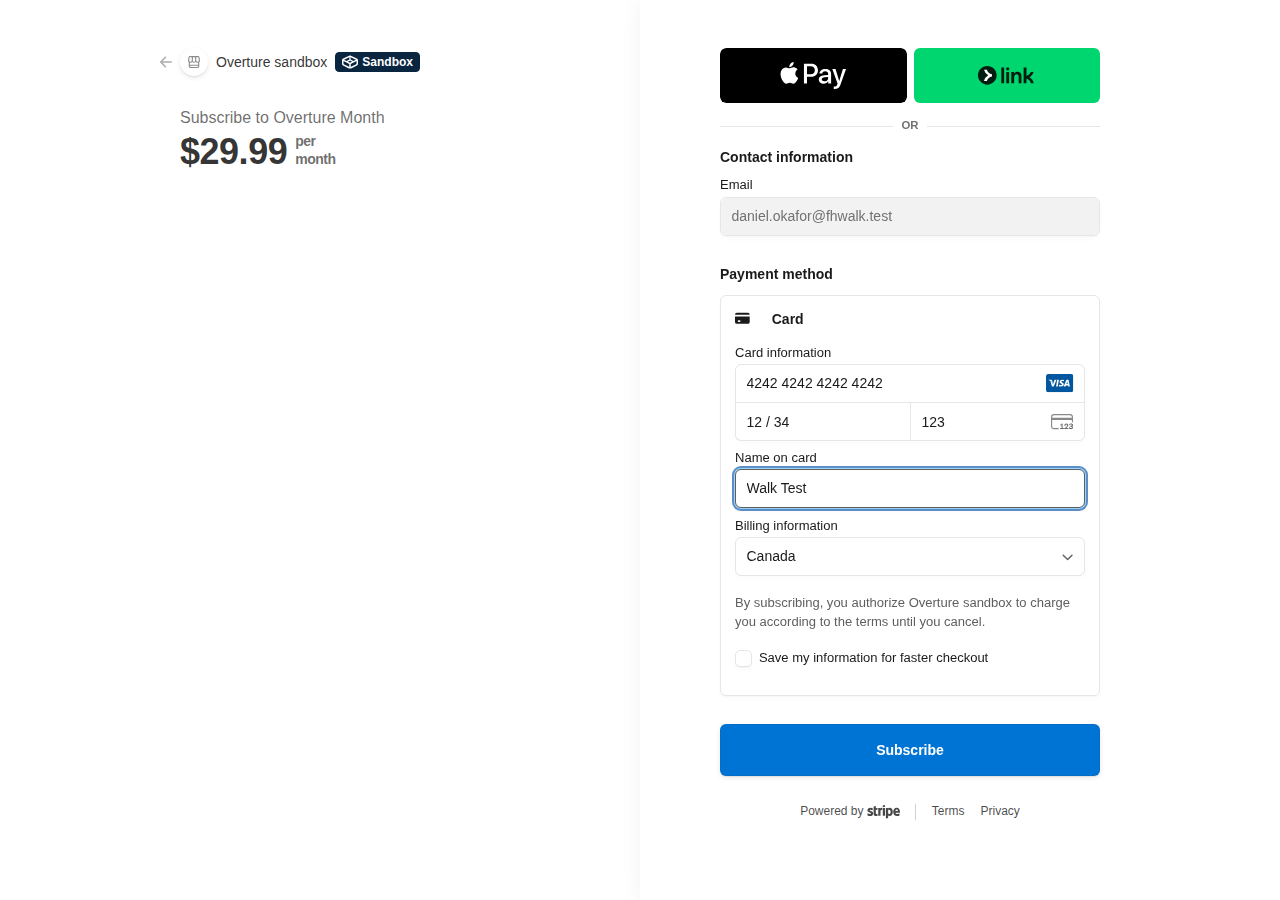
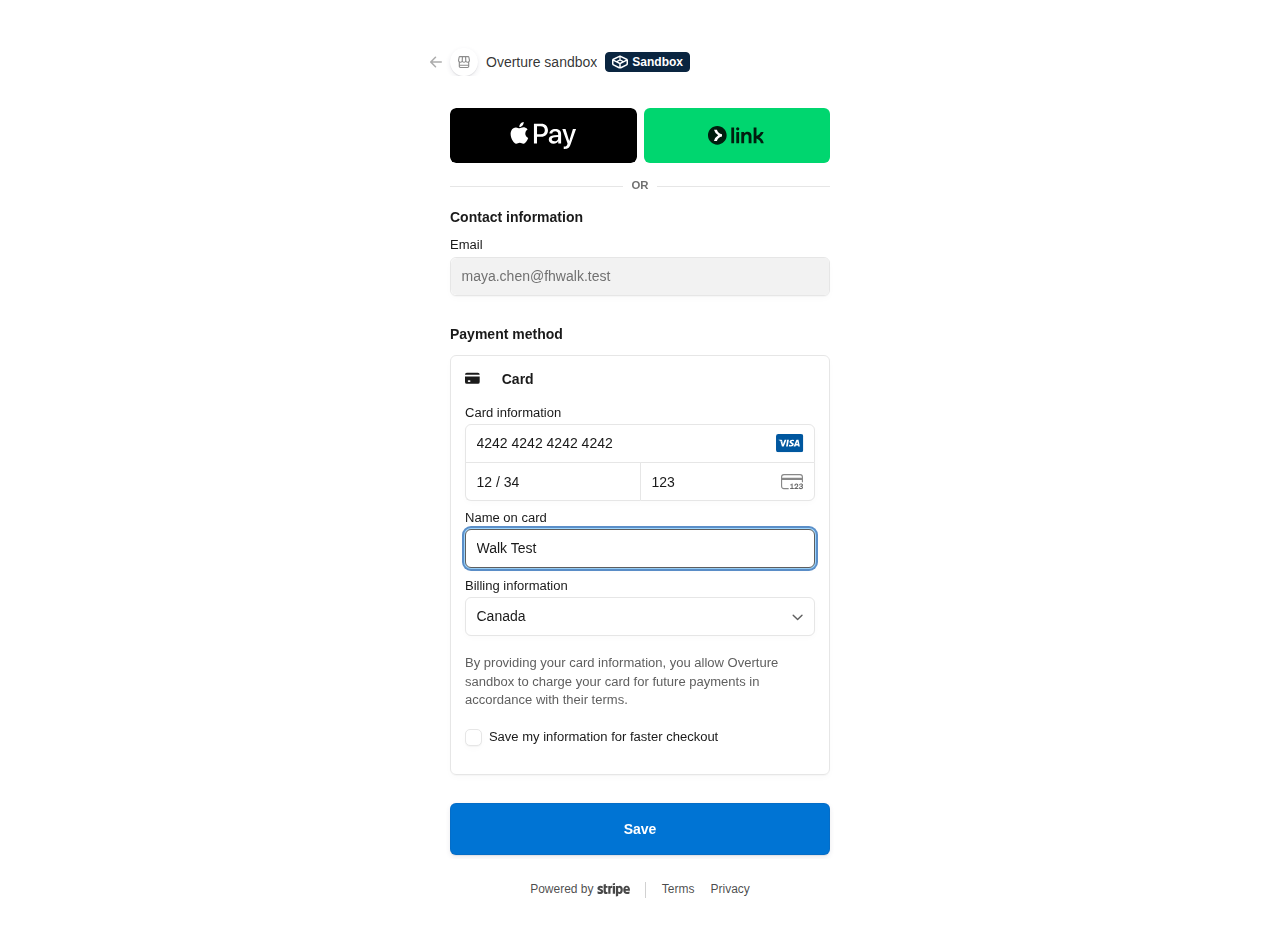
Rerun the #710 walk with the Free-trial user on the merged Lever fix
The third user now reaches the dry-submit stop too. Software engineer
(Free trial) on a fresh instance at b1e9d528: 100 jobs pulled, 98 kept,
85 scored, three trial picks, one Review form answered (three questions),
the Stripe Setup-card check, and USMobile's live Lever form filled to
Submit with the structured location committed (Ottawa, ON, CAN) and no
Submit click. Aylo (Greenhouse) closed before sending; Affirm hit the
#789 province loop at Review.

The report's swe section is this run's evidence (picks, pool, visible
top 10, Review questions, plan screens, identity fields, $0.0558 of
Haiku). Teacher and admin evidence stays from the two earlier instances
on 0ae0339b, and the readability fixes to the limits (three ATS families,
true dark Matches pair) are stated plainly.

diff --git a/docs/design-review/issue-710-walk/report.md b/docs/design-review/issue-710-walk/report.md
@@ -1,35 +1,44 @@
 # End-to-end acceptance walk — three people, three plans (#710)
 
-Date: 2026-11-27 (second rerun). Run on merged `main` at `0ae0339b` — the #710 wiring (#753), the BambooHR /
-Zoho / Manatal readers (#761), claim-every-adapter + preflight-the-filled-form (#763), one open pick per
-employer (#762), the batch custom_id cap (#755), and the live BambooHR / Zoho fill fix (#776). Local instance
-`http://devbox:3423`, `NODE_ENV=development`, `OVERTURE_DRY_SUBMIT=1`, freehire free tier (no API key),
-Claude Haiku 5.5 (Batches), Stripe sandbox, local Chromium (`BROWSER_PROVIDER=local`). Three fresh accounts:
+Date: 2026-11-27 (third rerun: the Free-trial user, on the merged Lever/JazzHR fix). This pass ran the software
+engineer only, on merged `main` at **`b1e9d528`** — the #710 wiring (#753), the BambooHR / Zoho / Manatal readers
+(#761), claim-every-adapter + preflight-the-filled-form (#763), one open pick per employer (#762), the batch
+custom_id cap (#755), the live BambooHR / Zoho fill fix (#776), and **#792**: the live Lever location autocomplete
+and the JazzHR `form#form_submit_new_resume` submit anchor (#786, #787). The teacher and admin evidence below was
+captured in the two preceding instances on `0ae0339b`; it is kept because this run only exists to move the third
+user.
+
+Local instance `http://devbox:3423`, `NODE_ENV=development`, `OVERTURE_DRY_SUBMIT=1`, freehire free tier (no API
+key), Claude Haiku 5.5 (Batches), Stripe sandbox, local Chromium (`BROWSER_PROVIDER=local`). Three fresh accounts:
 software engineer (Free trial), teacher (Weekly), admin (Monthly).
 
-**Headline: a real send now reaches the dry-submit stop.** Four Applications were filled and stopped immediately
-before the Submit click: Elite Private School (BambooHR, teacher), jrec and sipeknekatik (BambooHR, admin), and
-International Community Schools (Zoho Recruit, teacher, captured on the same commit in the immediately preceding
-pass). The pre-Submit screenshots are in this folder. No application clicked Submit — that is the intended
+**Headline: all three people now reach the pre-Submit stop, on three ATS families.** Five Applications were filled
+and stopped immediately before the Submit click: USMobile (Lever, swe — this run), Elite Private School (BambooHR,
+teacher), International Community Schools (Zoho Recruit, teacher), jrec and sipeknekatik (BambooHR, admin). The
+pre-Submit screenshots are in this folder. No application clicked Submit — that is the intended
 `OVERTURE_DRY_SUBMIT=1` stop, not a failure.
 
-Two ATS families reached it, which was the target of this rerun. The remaining blockers are four distinct
-per-adapter issues, filed with their exact evidence (#786 JazzHR selector, #787 Lever fill_failed without a
-diagnostic, #788 Manatal identity, #789 Greenhouse city combobox review loop). Workable stays behind the ATS kill
-switch; SmartRecruiters' sampled posting had expired.
+The Lever fill blocker that stopped this user in the previous run is gone: the structured location commits
+(`location` + `selectedLocation` both populate) and the Free-trial pick no longer dies before preflight. The other
+two picks this day stopped for reasons outside the send path — a closed posting and the #789 Review loop. Two
+per-adapter blockers remain from the wider walk — Manatal identity (#788) and the Greenhouse city/province Review
+loop (#789), which bit the Affirm card in this run — plus supply limits (Workable kill switch, an expired or closed
+posting).
 
 ## What this run shares
 
 - Sign-up by magic link, resume upload with the real Haiku resume reader, only the truly missing gap fields, then
-  preferences by freehire category and canonical place ids. One capped pull per person (`jobs.pull_max_pages=1`,
-  so 100 fetched), dedupe, sendable-ATS filtering, then one Haiku score per job through the Batches API.
-- The dispatcher now claims every apply-supported adapter and no longer blocks an `unknown` liveness result
-  (#763), so every pick either prepares, reaches Ready, or records an attempt. The Tracker shows why.
-- Review questions come from the real form; the harness answers them through the real Review form. Answering a
-  Greenhouse city combobox can loop (see #789), and the walk then skips that Application instead of faking it.
+  preferences by freehire category and canonical place ids. One capped pull per person (`jobs.pull_max_pages=1`:
+  100 fetched), dedupe, sendable-ATS filtering, then one Haiku score per job through the Batches API.
+- The dispatcher claims every apply-supported adapter and no longer blocks an `unknown` liveness result (#763), so
+  every pick either prepares, reaches Ready, or records an attempt. The Tracker shows why.
+- Review questions come from the real form; the harness answers them through the real Review form. A question that
+  comes back after it was answered is skipped rather than answered twice, so a looping card is skipped, not faked
+  (#789).
 - Plans were honoured in Stripe sandbox: the admin's Monthly Checkout created a real subscription and the signed
   `invoice.paid` webhook granted **250 applications** (`ledger` grant `in_1UgUKIGhJ7DirGl3p6krU6tp`); the teacher's
-  Weekly Checkout completed and the plan screen shows Weekly with the 10-a-day limit.
+  Weekly Checkout completed and the plan screen shows Weekly with the 10-a-day limit; the swe trial went through the
+  Setup-card check only (no charge).
 - The paid 5-minute spacing is exercised with the test clock (`POST /__test__/clock/offset`, enabled with
   `ENABLE_TEST_ROUTES`): the two admin BambooHR dry submits are **294 s** apart (scheduled 300 s), rather than
   sitting through wall-clock minutes. Everything else (pull, scoring, preparation, filling) is the shipped path.
@@ -38,6 +47,7 @@ switch; SmartRecruiters' sampled posting had expired.
 
 | User | Application | ATS | Attempt | Outcome | Submit click |
 |---|---|---|---|---|---|
+| Maya (Free trial) | USMobile — Senior Backend Engineer | Lever | 1 | `dry_submit` | none |
 | Amina (Weekly) | Elite Private School — English Teacher 2026-2027 | BambooHR | 1 | `dry_submit` | none |
 | Amina (Weekly) | International Community Schools — Homeroom Teacher | Zoho Recruit | 1 | `dry_submit` | none (prior pass, same commit) |
 | Daniel (Monthly) | jrec — Executive Assistant | BambooHR | 1 | `dry_submit` | none |
@@ -45,45 +55,81 @@ switch; SmartRecruiters' sampled posting had expired.
 
 The attempt rows carry `outcome=dry_submit`, `error_code=dry_submit`, `submit_clicked_at=null`, and each has a
 stored `before_submit` screenshot. The screenshots show the filled live form — name, email, phone, resume
-attachment (and, for Zoho, the address and demographic selects) — with the Submit/Submit Application button still
-uncicked.
+attachment (and, for Zoho, the address and demographic selects; for Lever, the committed location) — with the
+Submit/Submit Application button still unclicked.
 
-Screens: [BambooHR (teacher)](teacher-send-bamboohr-before-submit.png) ·
+Screens: [Lever (swe)](swe-send-lever-before-submit.png) ·
+[BambooHR (teacher)](teacher-send-bamboohr-before-submit.png) ·
 [Zoho Recruit (teacher)](teacher-send-zoho_recruit-before-submit.png) ·
 [BambooHR jrec (admin)](admin-send-bamboohr-jrec-before-submit.png) ·
 [BambooHR sipeknekatik (admin)](admin-send-bamboohr-sipeknekatik-before-submit.png)
 
-## User 1 — Maya Chen, software engineer, Free trial
+## User 1 — Maya Chen, software engineer, Free trial (this run)
 
 Preferences: Software engineering, Backend, Full-stack, DevOps, Data engineering; Canada. Resume reader filled
 name, email, phone, city/country, work authorization, current employer, languages, GitHub; gaps asked only for
 salary, notice, relocation, LinkedIn and the sponsorship confirmation.
 
-Pool **88** matching roles after scoring; the trial shows the top 3 and locks the rest behind the plan card.
-Picks: Aylo Careers (Greenhouse), Flexstaf IT (Manatal), Jobgether (Lever).
+Pull: **100 fetched, 98 kept, 2 dropped as duplicates**, one page. Scoring: **85 scored rows** in the instance, and
+the Matches screen first reported **88 matching roles** to the user. The list is live and was re-ranked while the
+run went on: the capture at the end shows **64 matches (page 1 of 7)**, all at 80%, after the app's own second pull
+and re-score. The trial shows its picks and locks the rest behind the plan card.
 
-| # | Score | Role | Company | Place | Why (stored reason, shortened) |
-|---|---|---|---|---|---|
-| 1 | 85 | Sr. Software Developer I | Aylo Careers | Montréal, QC | Software engineering role matches your backend/platform work at Shopwise |
-| 2 | 85 | Senior Backend Software Engineer – Golang | Flexstaf IT | Ontario | Go backend work matches your checkout API at Shopwise; GraphQL unconfirmed |
-| 3 | 80 | Founding Engineer | Jobgether | Canada | Full-stack ownership from architecture to deployment, adjacent to backend |
+Picks (one per employer, chosen by the app from the sendable list):
 
-Plan screen: Free trial preselected, card check only, all 3 sent at once; Stripe sandbox Setup card confirmed.
-Outcome: **no send for the software pool.**
-- Jobgether (Lever) was approved and dispatched twice: both attempts `outcome=form_changed`,
-  `error_code=null`, `submit_clicked_at=null` — the filler failed before preflight, so no field detail is
-  recorded (#787).
-- Flexstaf IT (Manatal) was skipped as `posting_identity:unreadable` (#788).
-- Aylo Careers (Greenhouse) produced no attempt in this pass; in the immediately prior pass it was skipped as
-  `form_unsupported`.
+| # | Role | Company | Place | ATS |
+|---|---|---|---|---|
+| 1 | Sr. Software Developer I | Aylo Careers | Montréal, Quebec | Greenhouse |
+| 2 | Senior Backend Engineer | USMobile | Toronto | Lever |
+| 3 | Senior Software Engineer, Backend (Trust Infra) | Affirm | Remote Canada | Greenhouse |
 
-Review questions per application: Aylo 0 (unsupported form), Flexstaf 0, Jobgether 0 — no form was read before
-the fill failed.
+The visible list at the end of the run (as the Matches screen showed it, page 1 of 7):
 
-What this proves: a Free-trial user still reaches a scored, pickable list, the card check, three durable picks and
-the plan gate. The software pool's direct employers on this day were Lever/Manatal, and neither can send yet.
+| # | Match | Role | Company | Place |
+|---|---|---|---|---|
+| 1 | 80 | Founding Engineer | Jobgether | Canada |
+| 2 | 80 | Senior Platform Engineer | Jobgether | Canada |
+| 3 | 80 | Founding Engineer – Infra Development | hireVouch | Toronto, Ontario |
+| 4 | 80 | Senior Software Developer, AI Infrastructure | Jobgether | Canada |
+| 5 | 80 | DevOps/Cloud Engineer (Senior) | Upstaff | Toronto, Canada |
+| 6 | 80 | Senior Full Stack AI Engineer | Orion Digital | Vancouver (or remote), BC |
+| 7 | 80 | Senior Software Engineer, Security | Forward Financing | Remote – Ontario, Canada |
+| 8 | 80 | Senior Platform Engineer | Robots and Pencils | Remote, Canada |
+| 9 | 80 | Senior Software Engineer, Platform | Planet | Canada, Remote |
+| 10 | 80 | Senior Full Stack Engineer II | Jobgether | Canada |
 
-## User 2 — Amina Yusuf, teacher, Weekly
+Plan: Free trial preselected, three applications at once, card check only (`Save`, no charge) in Stripe sandbox;
+the tracker shows "Free trial · 3 applications", "3 applications left · 0 of 10 today".
+
+Review questions: the USMobile form raised **three** — "Are you able to work in our Toronto office 3 days a week?"
+(answered No), "What are your salary expectations for this role?" (CAD 150,000 a year), "Are you authorized to work
+lawfully in the US for US Mobile Inc?" (answered No). Optional Preferred Name, Pronouns and State/Province were
+left blank. The Affirm form raised five (Preferred Name, Pronouns, U.S. State or Canadian Province, how-did-you-hear,
+prior employment at Affirm); the province question came back after it was answered, so the walk skipped that card
+as `review_dismissed` — the #789 class of loop, on Greenhouse again.
+
+Identity fields on the filled Lever form: Full name (Maya Chen), Email, Phone, **Current location** (the structured
+autocomplete committed "Ottawa, ON, CAN" — full name *and* hidden `selectedLocation` id), Current company, LinkedIn
+URL, Portfolio URL, GitHub URL, US Mobile phone, resume attachment; plus the hybrid-schedule radio (No), relocation
+radio (No), salary expectation textarea (CAD 150,000 a year), and the Canada / US work-authorization radios
+(Yes / No). The Submit Application button is visible and unclicked.
+
+Outcome: **USMobile (Lever) reached the dry-submit stop.** Aylo Careers (Greenhouse) prepared fine but was skipped at
+send with `posting_closed` — "This posting closed before sending.", the liveness check doing its job. Affirm
+(Greenhouse) stopped at Review (`review_dismissed`, #789).
+
+Honest detail on the attempt rows: this Application has four — `n=1 dry_submit`, `n=1 provider_error`, and
+`n=2 dry_submit` twice. The walk's approve loop re-approves a card that the dry-submit stop leaves back in Ready,
+so it was dispatched again; one of those re-dispatches failed 8.6 s in as `provider_error` with no stored error
+code, and the retry reached the same stop. Three `before_submit` screenshots were stored; the report links one. No
+Submit was clicked in any of them. This is harness behaviour around a deliberate dev-only stop, not a duplicate
+send to an employer.
+
+What this proves: a Free-trial user now goes from a fresh account through a real pull, real Haiku scoring, the
+3-pick trial, the Stripe Setup card check, one answered Review form, and a fully filled live Lever form stopped at
+Submit. The two remaining ATS gaps on this user's list were supply/Review, not the send path.
+
+## User 2 — Amina Yusuf, teacher, Weekly (preceding instance, `0ae0339b`)
 
 Preferences: Education; Ottawa + UAE, Saudi Arabia, Qatar, Kuwait, Bahrain, Oman. Gaps: phone, salary, notice,
 relocation, languages (English/Arabic).
@@ -109,7 +155,7 @@ Outcome:
   resume attachment, with Submit Application visible and unclicked.
 - **International Community Schools (Zoho Recruit) reached the dry-submit stop in the immediately preceding pass
   on `0ae0339b`**: the screenshot shows the full address block, the gender and nationality selects, the resume
-  attachment and a required CAPTCHA field above Submit Application. This pass skipped that Application at Review
+  attachment and a required CAPTCHA field above Submit Application. The later pass skipped that Application at Review
   (`review_dismissed`) because the city/nationality answers were re-asked; that is the #789 class of loop, not a
   send-path regression.
 - International School of London Qatar (BambooHR) stopped at preflight with
@@ -124,10 +170,10 @@ Available (optional). On the Zoho form: First/Last Name, Email, Mobile (+1), Gen
 State, Country, resume.
 
 What this proves: a Weekly teacher can go from a fresh account through a real paid Checkout to a fully filled live
-BambooHR form and a fully filled live Zoho form, stopping exactly at Submit. The supply limit is now the Workable
+BambooHR form and a fully filled live Zoho form, stopping exactly at Submit. The supply limit is the Workable
 kill switch, not form reading.
 
-## User 3 — Daniel Okafor, admin, Monthly
+## User 3 — Daniel Okafor, admin, Monthly (preceding instance, `0ae0339b`)
 
 Preferences: Administration, Operations; Canada + Ottawa. Gaps: phone, salary, notice, relocation, languages.
 
@@ -153,8 +199,10 @@ Outcome:
 - **jrec — Executive Assistant (BambooHR) reached the dry-submit stop.**
 - **sipeknekatik — Council Administrative Assistant (BambooHR) reached the dry-submit stop**, 294 s after jrec on
   the skipped clock (the 5-minute paid spacing).
-- CMHA Thames Valley (JazzHR) was approved and dispatched; the attempt ended `form_changed` with no error code
-  because the live form is `form#form_submit_new_resume` and the JazzHR selector never matched (#786).
+- CMHA Thames Valley (JazzHR) was approved and dispatched; that attempt ended `form_changed` with no error code
+  because the live form is `form#form_submit_new_resume` and the selector never matched (#786). #792 now matches it
+  and the merged e2e spec drives it to the dry-submit stop; it has not been re-run in this walk because this pass
+  was limited to the swe user.
 - Ubisoft (SmartRecruiters) stayed in preparation; its live posting says "This job has expired", so there is no
   form to read.
 - Alveole / BOS Staffing / MKO were skipped as `form_unsupported` or `open_text_ungrounded`; drclean and ltlgroup
@@ -169,42 +217,50 @@ in one paid run with the intended spacing.
 
 ## AI spend
 
-Admin (measured in this instance): **$0.0685**, 280 calls — 272 score calls (104,787 input / 735,124 cached /
-234,667 output tokens), 1 resume-facts call, 7 open-text calls (no tokens billed). The two targeted pulls and the
-retried scoring batch account for the higher call count than the last report.
+Swe (measured in this instance): **$0.0558**, 275 calls — 264 score calls (94,422 input / 717,024 cached / 186,997
+output tokens), 1 resume-facts call, 10 question-mapping calls (the Review forms). The two pulls and the re-score
+pass account for the score calls exceeding the 85 scored rows.
 
-Swe and teacher ran in the preceding instance on the same commit; their per-user usage rows were not re-read
-before that instance was reset for the admin pass. Their scoring used the same per-job batch shape (85 and 35
-score calls), so they are in the same few-cents range, but those exact totals are not claimed here. This is a
-bookkeeping gap in the walk harness, not a product gap: `GET /__test__/llm/usage?userId=` reports it when the
-instance is kept.
+Teacher and admin ran in the preceding instances on `0ae0339b`; their per-user usage rows were not re-read before
+those instances were reset. Admin measured $0.0685 (280 calls) at the time; teacher used the same per-job batch
+shape, so it is in the same few-cents range, but that exact total is not claimed here. This is a bookkeeping gap in
+the walk harness, not a product gap: `GET /__test__/llm/usage?userId=` reports it when the instance is kept.
 
 Browser Use spend: **$0** — `BROWSER_PROVIDER=local`, as allowed when Browser Use cloud sessions stop immediately
 for this account (see known limits).
 
 ## Known limits
 
-- **No Application clicked Submit.** This is the requested `OVERTURE_DRY_SUBMIT=1` stop; the four screenshots are
-  the evidence that filling completed on BambooHR and Zoho. Confirmation receipts are not part of this run.
-- **Four per-adapter blockers remain, each with its own issue and exact evidence:** #786 (JazzHR live form id),
-  #787 (Lever fill_failed with no recorded field), #788 (Manatal posting identity unreadable), #789 (Greenhouse
-  city combobox Review loop). None of these weakens a guard or fakes a send.
+- **No Application clicked Submit.** This is the requested `OVERTURE_DRY_SUBMIT=1` stop; the five screenshots are
+  the evidence that filling completed on Lever, BambooHR and Zoho. Confirmation receipts are not part of this run.
+- **Two blockers remain, each with its own issue and reproduced evidence:** #788 (Manatal posting identity
+  unreadable) and #789 (Greenhouse city/province Review loop — seen again on Affirm this run). Neither weakens a
+  guard or fakes a send. #786 and #787 are closed by `b1e9d528`; the JazzHR page and the Lever location are now
+  covered by the merged e2e spec, and Lever is proven live by this run.
+- **The dry-submit stop returns the card to Ready**, so the walk's approve loop dispatched the same Application
+  again: four attempt rows on USMobile, one of them `provider_error` with no stored code. Nothing was sent twice to
+  the employer (no Submit click); a product-side reason string for that provider error would make the retry easier
+  to read.
 - **Workable remains disabled** by the ATS kill switch (`ats_not_enabled`), so the strongest admin and education
   matches still cannot send. That is a deliberate switch, listed for the owner.
-- **SmartRecruiters' sampled posting had expired** ("This job has expired"); the walk stayed in preparation rather
-  than inventing a form. Pool freshness, not a send bug.
-- **Two local instances.** Swe and teacher ran together; the admin pass ran on a fresh instance after a local
-  reset, so its pull/usage rows are the ones quoted directly above. All runs are on `0ae0339b`.
+- **SmartRecruiters' sampled posting had expired** ("This job has expired"), and the swe run's Greenhouse card for
+  Aylo closed before send (`posting_closed`). The walk stayed in preparation or skipped rather than inventing a
+  form. Pool freshness, not a send bug.
+- **Three local instances.** Swe ran alone on a fresh instance (data directory reset) at `b1e9d528`; teacher and
+  admin ran together and then in a second instance at `0ae0339b`. Their pull/usage rows are the ones quoted for
+  them.
 - **The paid spacing was exercised with the test clock**, not wall-clock minutes, at the coordinator's request:
   `POST /__test__/clock/offset` plus `POST /__test__/jobs/run-due`. The 294 s gap between the admin dry submits is
   the real scheduled spacing, not a shortened one.
 - **Browser Use cloud sessions still stop immediately** (`status: stopped`, `cdpUrl: null`), so filling ran in
   local Chromium. The brief allows this when Browser Use is unavailable; no Browser Use spend was incurred.
 - **Review answers** are ordinary owner answers typed through the real Review forms (city, province, ZIP,
-  nationality, gender, how-heard). The harness picks plausible values; two cards looped on a combobox answer and
-  were skipped, which is the product behaviour described in #789.
-- Screenshots are light at 390 and 1280; social/matches screens also have a dark pair. Renders come from the real
-  pages, not canvas boards.
+  nationality, gender, how-heard, hybrid attendance, work authorization). The harness picks plausible values; a
+  card whose question comes back was skipped, which is the product behaviour described in #789.
+- Screenshots are light at 390 and 1280; the Matches screen also has a dark pair. The app keeps its theme in
+  `localStorage` and reads the OS setting only on mount, so earlier `-dark` captures that changed the scheme after
+  load rendered light; the swe pair here is captured in a fresh dark-scheme context and is genuinely dark.
+- Renders come from the real pages, not canvas boards.
 
 ## Reproduce
 
